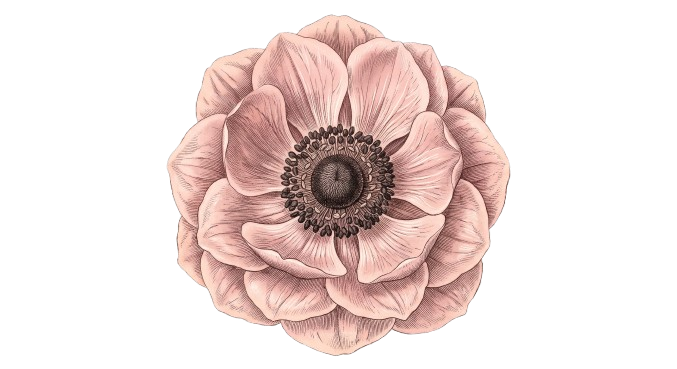
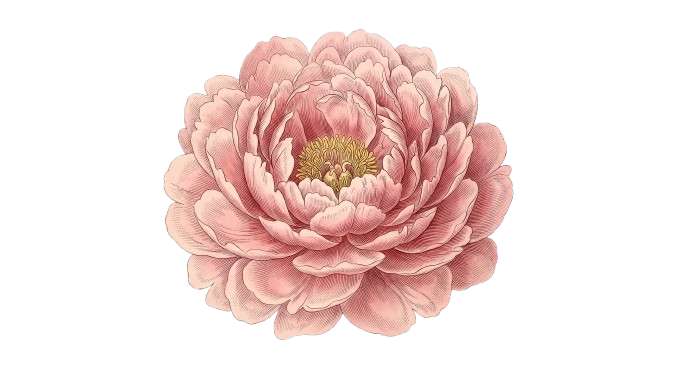
feat: Add 5th flower option (test5) for vintage theme

Changed region(s): [[0.2171, 0.0298, 0.7755, 0.9837]]

diff --git a/studio/index.html b/studio/index.html
@@ -441,6 +441,16 @@
                   </div>
                   <span class="text-[8px] font-bold tracking-widest uppercase text-gray-400 group-[.active]:text-emerald-700">Tipe 4</span>
                 </button>
+
+                <!-- Flower 5 -->
+                <button type="button" class="vintage-flower-option group flex flex-col items-center gap-2" data-vintage-flower="flower5">
+                  <div class="w-10 h-10 rounded-full border border-transparent group-[.active]:border-emerald-600/50 p-0.5 transition-all duration-300">
+                    <div class="w-full h-full rounded-full overflow-hidden bg-[#F2F4F0]">
+                      <img src="../themes/vintage/assets/test5.png" alt="Flower 5" class="w-full h-full object-cover scale-[1.2]" />
+                    </div>
+                  </div>
+                  <span class="text-[8px] font-bold tracking-widest uppercase text-gray-400 group-[.active]:text-emerald-700">Tipe 5</span>
+                </button>
               </div>
             </div>
 

diff --git a/themes/vintage/script.js b/themes/vintage/script.js
@@ -37,6 +37,10 @@ const VINTAGE_FLOWER_ASSETS = {
   'flower4': [
     _SCRIPT_BASE + 'assets/test4.png',
     _SCRIPT_BASE + 'assets/test4.png'
+  ],
+  'flower5': [
+    _SCRIPT_BASE + 'assets/test5.png',
+    _SCRIPT_BASE + 'assets/test5.png'
   ]
 };
 

diff --git a/studio/js/studio.js b/studio/js/studio.js
@@ -360,7 +360,8 @@ const Studio = (() => {
           'flower1': 'Tipe 1',
           'flower2': 'Tipe 2',
           'flower3': 'Tipe 3',
-          'flower4': 'Tipe 4'
+          'flower4': 'Tipe 4',
+          'flower5': 'Tipe 5'
         };
         showToast(`Bunga '${names[flower] || flower}' ${btn.classList.contains('active') ? 'dipilih' : 'dihapus'}`);
       });